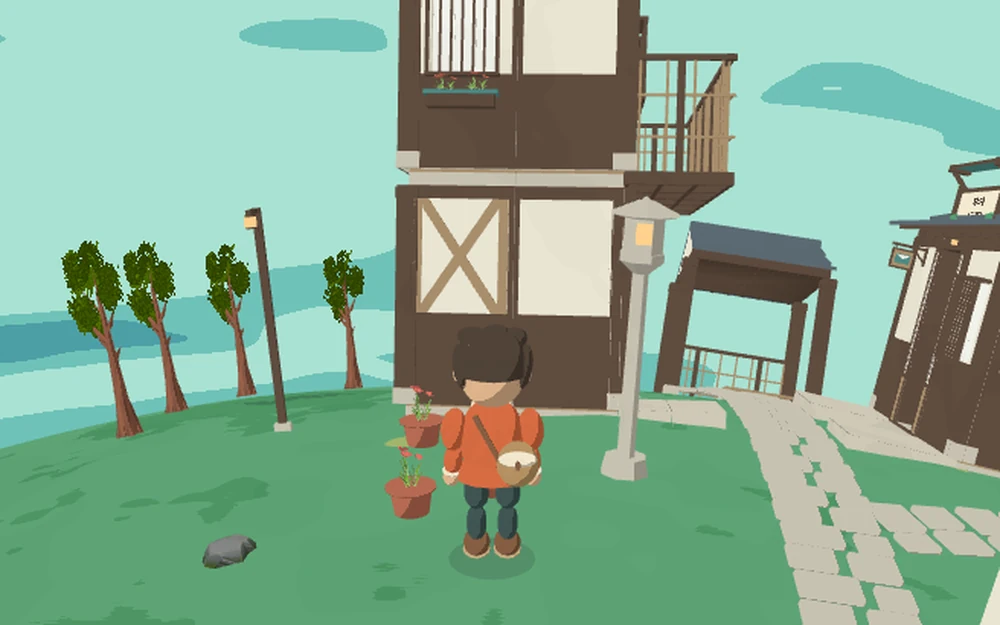
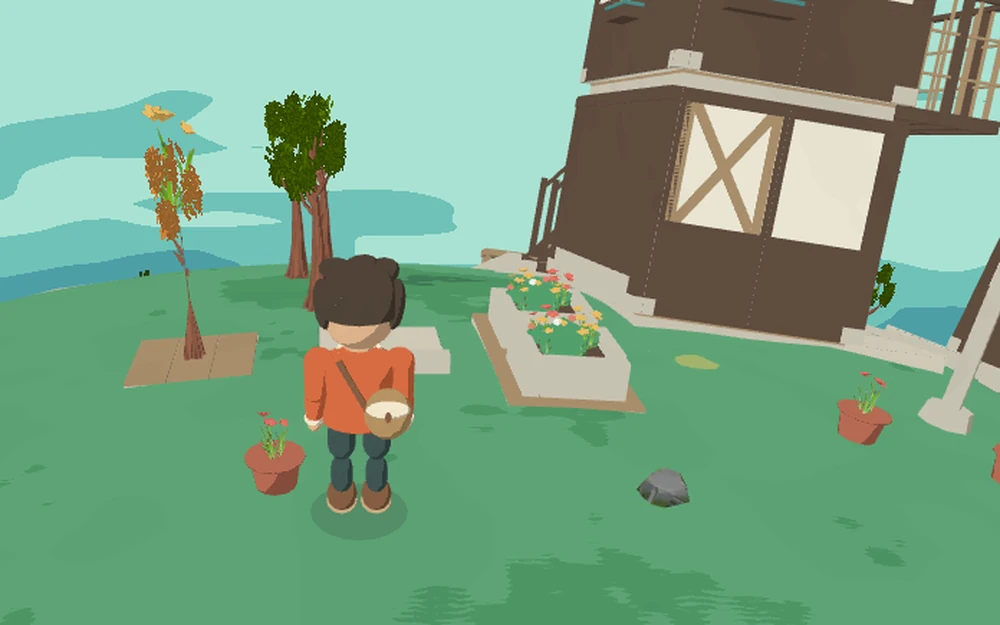
Place layered flower beds, stone edging and golden trees from the courtyard guide

diff --git a/integrations/agent-arcade/little-worlds/additions/src/client/nature-art.ts b/integrations/agent-arcade/little-worlds/additions/src/client/nature-art.ts
@@ -121,6 +121,41 @@ let potMaterial: T.MeshStandardMaterial | undefined;
 /** The existing Quaternius flowers, without the standalone object's pot. */
 export function flowerFoliage() { return pieces(shapeData('flowers', 'distant')); }
 
+const gold = new WeakMap<T.MeshStandardMaterial, T.MeshStandardMaterial>();
+function goldenFoliage(source: T.MeshStandardMaterial) {
+  const existing = gold.get(source);
+  if (existing) return existing;
+  const material = markShared(applyArtMaterial(new T.MeshStandardMaterial({
+    map: source.map, side: source.side, alphaTest: source.alphaTest, roughness: source.roughness,
+  })));
+  material.alphaToCoverage = false;
+  const before = material.onBeforeCompile, baseKey = material.customProgramCacheKey();
+  material.customProgramCacheKey = () => baseKey + ':courtyard-golden-foliage';
+  material.onBeforeCompile = (shader, renderer) => {
+    before.call(material, shader, renderer);
+    // Recolour the existing leaf/petal texture and preserve its original cutout alpha.
+    shader.fragmentShader = shader.fragmentShader.replace('#include <map_fragment>', `#include <map_fragment>
+      float plantTone = clamp(dot(diffuseColor.rgb, vec3(0.28, 0.60, 0.12)) * 1.85, 0.0, 1.0);
+      diffuseColor.rgb = mix(vec3(0.52, 0.115, 0.012), vec3(1.0, 0.75, 0.20), plantTone);`);
+  };
+  gold.set(source, material);
+  return material;
+}
+
+export function courtyardFoliage(kind: 'flowers' | 'tree' | 'bush', golden: boolean) {
+  const data = shapeData(kind === 'tree' ? 'leafy' : 'flowers', 'distant');
+  const group = new T.Group();
+  pieces(data).forEach(({ geometry, material }, index) => {
+    const t = data[index].t;
+    // Every saved structure owns these copies for its camera provenance attributes.
+    const shape = geometry.clone(); shape.userData = {};
+    const mesh = new T.Mesh(shape, golden && (t === 'flowers' || t.startsWith('leaves-')) ? goldenFoliage(material) : material);
+    mesh.castShadow = mesh.receiveShadow = true;
+    group.add(mesh);
+  });
+  return group;
+}
+
 function flowerPot() {
   return pot ??= markShared(new T.LatheGeometry([
     [0, 0], [.64, 0], [.79, .91], [.94, .91], [.94, 1], [.76, 1], [.75, .90], [0, .90],

diff --git a/integrations/agent-arcade/little-worlds/additions/src/client/courtyard-inspiration.ts b/integrations/agent-arcade/little-worlds/additions/src/client/courtyard-inspiration.ts
@@ -1,6 +1,7 @@
 import sampleImage from '../assets/courtyard-inspiration.webp';
 import flowerCornerImage from '../assets/courtyard-flower-corner.webp';
 import type { BuildKind } from '../shared/planets.ts';
+import { COURTYARD_PLANTINGS, type CourtyardPlanting } from '../shared/courtyard-plantings.ts';
 import { localizeTree, setAttribute, setText } from './i18n.ts';
 import './courtyard-inspiration.css';
 
@@ -14,15 +15,18 @@ const examples = [{
   ],
 }, {
   title: 'Flower-viewing corner', image: flowerCornerImage,
-  alt: 'Two pots at different heights on the grass beside the open stone path, with a lantern set back.',
+  alt: 'Coral and gold flowers, low stone edging and a golden tree frame the grass beside the courtyard path.',
   items: [
-    { kind: 'flowers', title: 'Front flower pot', tip: 'Place it on lower grass beside the path, near the entrance.' },
-    { kind: 'flowers', title: 'Raised flower pot', tip: 'Place the same pot on higher grass, a little farther from the path.' },
-    { kind: 'lamp', title: 'Lantern', tip: 'Set the lantern behind the pots. Leave the stone path clear from end to end.' },
+    { kind: 'bed', title: COURTYARD_PLANTINGS.bed.name, tip: 'Lay the flowers across the grass to make a broad band of colour.' },
+    { kind: 'edging', title: COURTYARD_PLANTINGS.edging.name, tip: 'Turn the trim along the grass edge. Keep the path and the front of both seats clear.' },
+    { kind: 'golden-tree', title: COURTYARD_PLANTINGS['golden-tree'].name, tip: 'Set the taller tree behind the flowers. Leave open space around the pots.' },
+    { kind: 'flowers', title: 'Flower pot', tip: 'Keep a pot within reach from the open grass so a visiting friend can water it.' },
   ],
 }] as const;
 
-export function createCourtyardInspiration(after: HTMLElement, choose: (kind: BuildKind) => void) {
+export type CourtyardChoice = BuildKind | CourtyardPlanting;
+
+export function createCourtyardInspiration(after: HTMLElement, choose: (kind: CourtyardChoice) => void) {
   const open = document.createElement('button');
   open.type = 'button';
   open.id = 'open-courtyard-inspiration';

diff --git a/integrations/agent-arcade/little-worlds/additions/src/shared/courtyard-plantings.ts b/integrations/agent-arcade/little-worlds/additions/src/shared/courtyard-plantings.ts
@@ -1,0 +1,32 @@
+import type { PartPlacement } from './blueprint-model.ts';
+
+// Immutable stock blueprints use the existing structure save and placement contract.
+export const COURTYARD_PLANTINGS = {
+  bed: {
[1 lines of base64/hex data omitted]
+    parts: [
+      { n: 1, part: 'garden.bed', x: 2, z: 3, level: 0, rot: 0 },
+      { n: 2, part: 'garden.bed', x: 3, z: 3, level: 0, rot: 0 },
+      { n: 3, part: 'floor.deck', x: 2, z: 3, level: 0, rot: 0 },
+      { n: 4, part: 'floor.deck', x: 3, z: 3, level: 0, rot: 0 },
+    ],
+  },
+  edging: {
[1 lines of base64/hex data omitted]
+    parts: [
+      { n: 1, part: 'street.kerb', x: 2, z: 3, level: 0, rot: 0 },
+      { n: 2, part: 'street.paving', x: 2, z: 3, level: 0, rot: 0 },
+    ],
+  },
+  'golden-tree': {
[1 lines of base64/hex data omitted]
+    parts: [
+      { n: 1, part: 'garden.tree', x: 3, z: 3, level: 0, rot: 0 },
+      { n: 2, part: 'floor.deck', x: 3, z: 3, level: 0, rot: 0 },
+    ],
+  },
+} satisfies Record<string, { name: string; hash: string; parts: PartPlacement[] }>;
+
+export type CourtyardPlanting = keyof typeof COURTYARD_PLANTINGS;
+export const courtyardPlanting = (hash: unknown) => Object.entries(COURTYARD_PLANTINGS)
+  .find(([, planting]) => planting.hash === hash)?.[0] as CourtyardPlanting | undefined;

diff --git a/integrations/agent-arcade/little-worlds/additions/src/client/courtyard-planting-art.ts b/integrations/agent-arcade/little-worlds/additions/src/client/courtyard-planting-art.ts
@@ -1,0 +1,29 @@
+import type { Object3D } from 'three';
+import { partTransform, pivotOf, type PartPlacement } from '../shared/blueprint-model.ts';
+import type { CourtyardPlanting } from '../shared/courtyard-plantings.ts';
+import { courtyardFoliage } from './nature-art.ts';
+
+export function addCourtyardPlantingArt(root: Object3D, kind: CourtyardPlanting, parts: readonly PartPlacement[]) {
+  const pivot = pivotOf(parts);
+  for (const part of parts) {
+    const { position: [x, y, z] } = partTransform(part, pivot);
+    if (kind === 'golden-tree' && part.part === 'garden.tree') {
+      const tree = courtyardFoliage('tree', true);
+      tree.position.set(x, y, z);
+      tree.scale.set(1.07, 2.12, 1);
+      const crown = courtyardFoliage('bush', true);
+      crown.position.set(x, y + 1.15, z);
+      crown.scale.set(.60, .91, .46);
+      root.add(tree, crown);
+    }
+    if (kind !== 'bed' || part.part !== 'garden.bed') continue;
+    const clusters = [[-.19,.03,.13], [.17,.13,.34], [.18,-.17,.21], [-.13,-.18,.42], [.01,.15,.51]];
+    clusters.forEach(([dx, dz, turn], index) => {
+      const group = courtyardFoliage('flowers', (part.n + index) % 3 !== 0);
+      group.position.set(x + dx, y + .26, z + dz);
+      group.rotation.y = turn * Math.PI * 2;
+      group.scale.set(.33, .25, .32);
+      root.add(group);
+    });
+  }
+}

diff --git a/integrations/agent-arcade/little-worlds/additions/src/assets/nature/README.md b/integrations/agent-arcade/little-worlds/additions/src/assets/nature/README.md
@@ -13,3 +13,5 @@ Quaternius created the original models in [Stylized Nature MegaKit](https://quat
 The conversion flattens each selected glTF primitive into indexed Three.js position, normal and UV buffers, applies meshoptimizer 1.1.1 to the index buffer, and packs the resulting buffers in `meshes.json`. It shifts the local base to ground level, normalises height, and downsamples colour maps to 256 pixels in lossless WebP using FFmpeg. The shrub keeps the original alpha mask with the village’s muted green palette. It uses the existing village lighting and base-colour textures, with no normal maps or engine-specific shaders. The pot is host geometry scaled to the established saved-object dimensions.
 
 Terrain decor reuses the original instance transforms, normals and counts. Each replacement fits the outgoing kind's geometry budget, so distant trees may retain their original low-LOD model. The host keeps its original assets for biome-specific cactus, agave, ice spires and blueprint scenery embedded in structures.
+
+The courtyard planting set reuses `Flower_3_Group`, `CommonTree_5` and `Bush_Common`. The game applies a gold palette to selected petals and to the tree canopy at render time, keeping the original UV cutouts. Stone edging and flower-bed masonry are existing Little Worlds village-kit parts.
